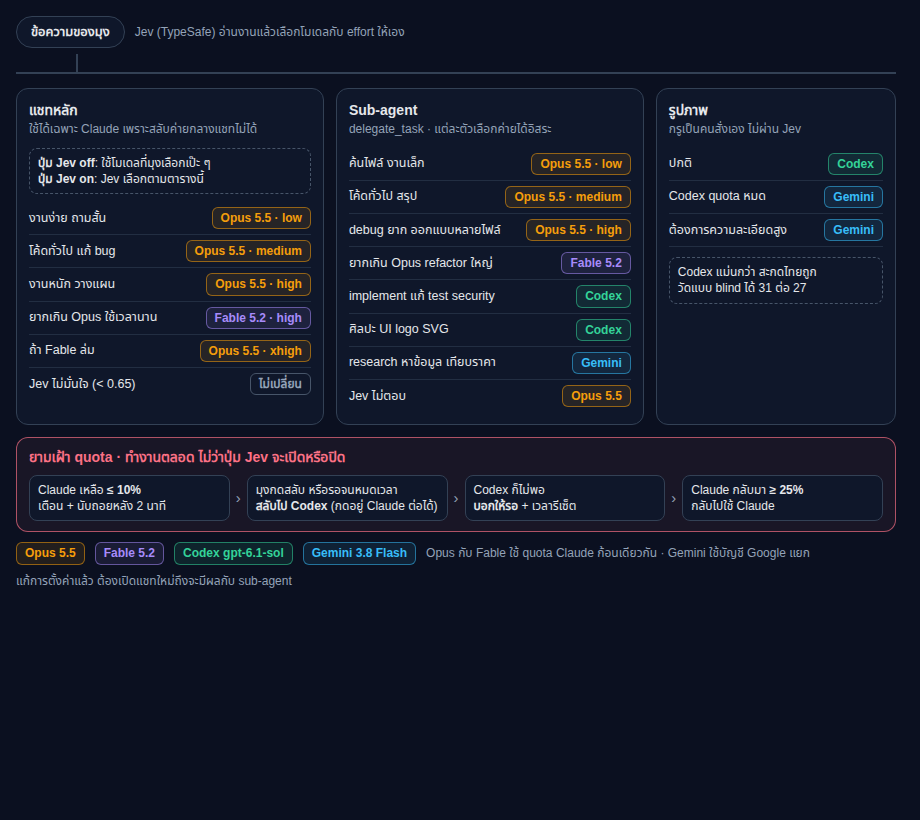
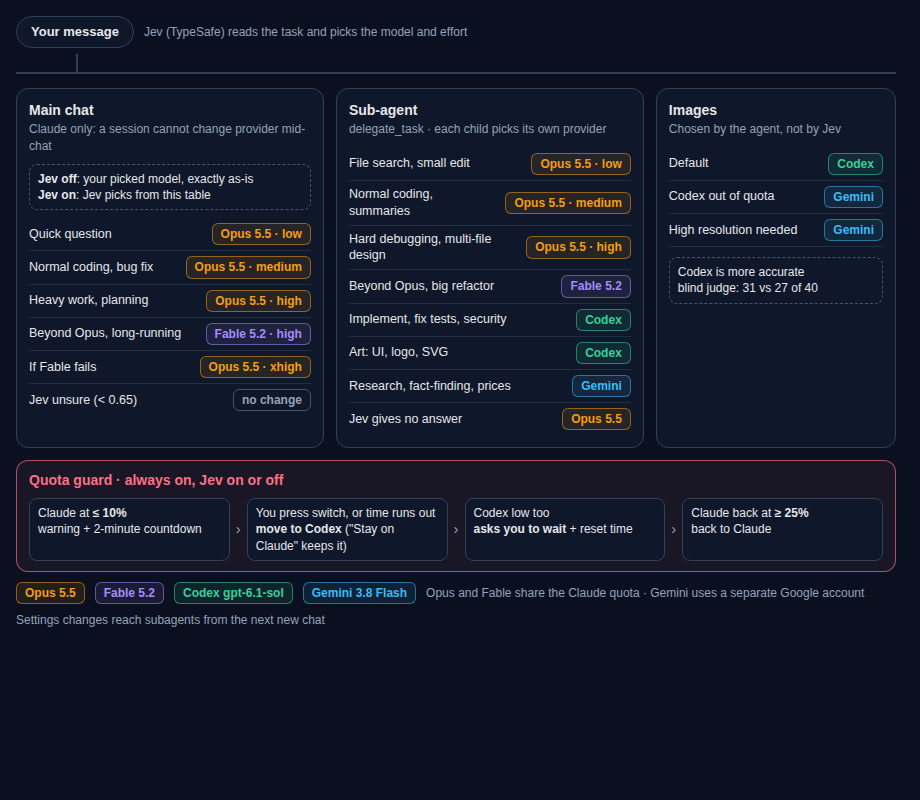
docs: English-only diagram, README and user-facing quota messages

diff --git a/docs/routing-map.html b/docs/routing-map.html
@@ -31,63 +31,63 @@
 
 <div class="map">
   <div class="top">
-    <span class="pill">ข้อความของมุง</span>
-    <span class="hint">Jev (TypeSafe) อ่านงานแล้วเลือกโมเดลกับ effort ให้เอง</span>
+    <span class="pill">Your message</span>
+    <span class="hint">Jev (TypeSafe) reads the task and picks the model and effort</span>
   </div>
   <div class="stem"></div>
 
   <div class="cols">
     <div class="col">
-      <h3>แชทหลัก</h3>
-      <div class="sub">ใช้ได้เฉพาะ Claude เพราะสลับค่ายกลางแชทไม่ได้</div>
-      <div class="gate"><b>ปุ่ม Jev off</b>: ใช้โมเดลที่มุงเลือกเป๊ะ ๆ<br><b>ปุ่ม Jev on</b>: Jev เลือกตามตารางนี้</div>
-      <div class="row"><span class="task">งานง่าย ถามสั้น</span><span class="chip opus">Opus 5.5 · low</span></div>
-      <div class="row"><span class="task">โค้ดทั่วไป แก้ bug</span><span class="chip opus">Opus 5.5 · medium</span></div>
-      <div class="row"><span class="task">งานหนัก วางแผน</span><span class="chip opus">Opus 5.5 · high</span></div>
-      <div class="row"><span class="task">ยากเกิน Opus ใช้เวลานาน</span><span class="chip fable">Fable 5.2 · high</span></div>
-      <div class="row"><span class="task">ถ้า Fable ล่ม</span><span class="chip opus">Opus 5.5 · xhigh</span></div>
-      <div class="row"><span class="task">Jev ไม่มั่นใจ (&lt; 0.65)</span><span class="chip keep">ไม่เปลี่ยน</span></div>
+      <h3>Main chat</h3>
+      <div class="sub">Claude only: a session cannot change provider mid-chat</div>
+      <div class="gate"><b>Jev off</b>: your picked model, exactly as-is<br><b>Jev on</b>: Jev picks from this table</div>
+      <div class="row"><span class="task">Quick question</span><span class="chip opus">Opus 5.5 · low</span></div>
+      <div class="row"><span class="task">Normal coding, bug fix</span><span class="chip opus">Opus 5.5 · medium</span></div>
+      <div class="row"><span class="task">Heavy work, planning</span><span class="chip opus">Opus 5.5 · high</span></div>
+      <div class="row"><span class="task">Beyond Opus, long-running</span><span class="chip fable">Fable 5.2 · high</span></div>
+      <div class="row"><span class="task">If Fable fails</span><span class="chip opus">Opus 5.5 · xhigh</span></div>
+      <div class="row"><span class="task">Jev unsure (&lt; 0.65)</span><span class="chip keep">no change</span></div>
     </div>
 
     <div class="col">
       <h3>Sub-agent</h3>
-      <div class="sub">delegate_task · แต่ละตัวเลือกค่ายได้อิสระ</div>
-      <div class="row"><span class="task">ค้นไฟล์ งานเล็ก</span><span class="chip opus">Opus 5.5 · low</span></div>
-      <div class="row"><span class="task">โค้ดทั่วไป สรุป</span><span class="chip opus">Opus 5.5 · medium</span></div>
-      <div class="row"><span class="task">debug ยาก ออกแบบหลายไฟล์</span><span class="chip opus">Opus 5.5 · high</span></div>
-      <div class="row"><span class="task">ยากเกิน Opus refactor ใหญ่</span><span class="chip fable">Fable 5.2</span></div>
-      <div class="row"><span class="task">implement แก้ test security</span><span class="chip codex">Codex</span></div>
-      <div class="row"><span class="task">ศิลปะ UI logo SVG</span><span class="chip codex">Codex</span></div>
-      <div class="row"><span class="task">research หาข้อมูล เทียบราคา</span><span class="chip gem">Gemini</span></div>
-      <div class="row"><span class="task">Jev ไม่ตอบ</span><span class="chip opus">Opus 5.5</span></div>
+      <div class="sub">delegate_task · each child picks its own provider</div>
+      <div class="row"><span class="task">File search, small edit</span><span class="chip opus">Opus 5.5 · low</span></div>
+      <div class="row"><span class="task">Normal coding, summaries</span><span class="chip opus">Opus 5.5 · medium</span></div>
+      <div class="row"><span class="task">Hard debugging, multi-file design</span><span class="chip opus">Opus 5.5 · high</span></div>
+      <div class="row"><span class="task">Beyond Opus, big refactor</span><span class="chip fable">Fable 5.2</span></div>
+      <div class="row"><span class="task">Implement, fix tests, security</span><span class="chip codex">Codex</span></div>
+      <div class="row"><span class="task">Art: UI, logo, SVG</span><span class="chip codex">Codex</span></div>
+      <div class="row"><span class="task">Research, fact-finding, prices</span><span class="chip gem">Gemini</span></div>
+      <div class="row"><span class="task">Jev gives no answer</span><span class="chip opus">Opus 5.5</span></div>
     </div>
 
     <div class="col">
-      <h3>รูปภาพ</h3>
-      <div class="sub">กรูเป็นคนสั่งเอง ไม่ผ่าน Jev</div>
-      <div class="row"><span class="task">ปกติ</span><span class="chip codex">Codex</span></div>
-      <div class="row"><span class="task">Codex quota หมด</span><span class="chip gem">Gemini</span></div>
-      <div class="row"><span class="task">ต้องการความละเอียดสูง</span><span class="chip gem">Gemini</span></div>
-      <div class="gate" style="margin-top:10px">Codex แม่นกว่า สะกดไทยถูก<br>วัดแบบ blind ได้ 31 ต่อ 27</div>
+      <h3>Images</h3>
+      <div class="sub">Chosen by the agent, not by Jev</div>
+      <div class="row"><span class="task">Default</span><span class="chip codex">Codex</span></div>
+      <div class="row"><span class="task">Codex out of quota</span><span class="chip gem">Gemini</span></div>
+      <div class="row"><span class="task">High resolution needed</span><span class="chip gem">Gemini</span></div>
+      <div class="gate" style="margin-top:10px">Codex is more accurate<br>blind judge: 31 vs 27 of 40</div>
     </div>
   </div>
 
   <div class="quota">
-    <h3>ยามเฝ้า quota · ทำงานตลอด ไม่ว่าปุ่ม Jev จะเปิดหรือปิด</h3>
+    <h3>Quota guard · always on, Jev on or off</h3>
     <div class="steps">
-      <div class="step">Claude เหลือ <b>≤ 10%</b><br>เตือน + นับถอยหลัง 2 นาที</div>
+      <div class="step">Claude at <b>≤ 10%</b><br>warning + 2-minute countdown</div>
       <span class="arrow">›</span>
-      <div class="step">มุงกดสลับ หรือรอจนหมดเวลา<br><b>สลับไป Codex</b> (กดอยู่ Claude ต่อได้)</div>
+      <div class="step">You press switch, or time runs out<br><b>move to Codex</b> ("Stay on Claude" keeps it)</div>
       <span class="arrow">›</span>
-      <div class="step">Codex ก็ไม่พอ<br><b>บอกให้รอ</b> + เวลารีเซ็ต</div>
+      <div class="step">Codex low too<br><b>asks you to wait</b> + reset time</div>
       <span class="arrow">›</span>
-      <div class="step">Claude กลับมา <b>≥ 25%</b><br>กลับไปใช้ Claude</div>
+      <div class="step">Claude back at <b>≥ 25%</b><br>back to Claude</div>
     </div>
   </div>
 
   <div class="legend">
     <span class="chip opus">Opus 5.5</span><span class="chip fable">Fable 5.2</span><span class="chip codex">Codex gpt-6.1-sol</span><span class="chip gem">Gemini 3.8 Flash</span>
-    <span class="hint">Opus กับ Fable ใช้ quota Claude ก้อนเดียวกัน · Gemini ใช้บัญชี Google แยก</span>
+    <span class="hint">Opus and Fable share the Claude quota · Gemini uses a separate Google account</span>
   </div>
-  <div class="foot">แก้การตั้งค่าแล้ว ต้องเปิดแชทใหม่ถึงจะมีผลกับ sub-agent</div>
+  <div class="foot">Settings changes reach subagents from the next new chat</div>
 </div>

diff --git a/plugins/hermes-jev-routing/quota_switch.py b/plugins/hermes-jev-routing/quota_switch.py
@@ -88,35 +88,35 @@ def plan_turn(model: str, gate, state: dict, slot: dict, now: Optional[float] = 
             new = {"mode": "claude"} if state.get("mode") not in (None, "", "claude") else None
             if gate.claude_low_spare and not slot.get("spare_noted"):
                 slot["spare_noted"] = True
-                return Plan("warn", f"Claude account นี้เหลือ {gate.claude_left:.0f}% ({gate.claude_label}) "
-                                    "แต่ยังมีอีก account ใน pool จะสลับ account ให้เอง", state=new)
+                return Plan("warn", f"This Claude account has {gate.claude_left:.0f}% left ({gate.claude_label}), "
+                                    "but another account in the pool has room. Switching accounts automatically.", state=new)
             return Plan(state=new)
         left = f"{gate.claude_left:.0f}%" if gate.claude_left is not None else "?"
         if gate.codex_usable:
             if slot.get("declined") and not gate.claude_floor:
-                return Plan("warn", f"Claude เหลือ {left} ({gate.claude_label}) มุงเลือกอยู่ Claude ต่อ")
+                return Plan("warn", f"Claude has {left} left ({gate.claude_label}). You chose to stay on Claude.")
             pending = state.get("mode") == "pending" and state.get("deadline", 0) > now
             deadline = float(state["deadline"]) if pending else now + OFFER_SECONDS
-            msg = (f"Claude เหลือ {left} ({gate.claude_label}) จะสลับไป Codex "
-                   f"ภายใน {max(0, int(deadline - now))} วินาที ถ้าไม่ตอบ")
+            msg = (f"Claude has {left} left ({gate.claude_label}). Switching to Codex "
+                   f"in {max(0, int(deadline - now))} seconds unless you answer.")
             return Plan("offer", msg, dict(CODEX_PICK), deadline,
                         state={"mode": "pending", "deadline": deadline, "from": model})
         if gate.claude_floor:
             return Plan("block", qg.wait_message(gate), state={"mode": "wait",
                         "until": gate.resume_at.timestamp() if gate.resume_at else 0})
-        return Plan("warn", f"Claude เหลือ {left} ({gate.claude_label}) และ Codex ใช้ไม่ได้ "
-                            "ทำงานให้สั้นและเซฟงานบ่อย ๆ")
+        return Plan("warn", f"Claude has {left} left ({gate.claude_label}) and Codex is unavailable. "
+                            "Keep tasks short and save work often.")
     if provider == "openai-codex":
         back = dict(CLAUDE_DEFAULT)
         previous = str(state.get("from") or "")
         if provider_of(previous) == "anthropic":
             back["model"] = previous
         if gate.claude_recovered and not gate.claude_floor and state.get("mode") in ("codex", "pending"):
-            return Plan("switch", f"Claude กลับมาแล้ว (เหลือ {gate.claude_left or 100:.0f}%) สลับกลับ Claude",
+            return Plan("switch", f"Claude is back ({gate.claude_left or 100:.0f}% left). Switching back to Claude.",
                         back, state={"mode": "claude"})
         if gate.codex_floor:
             if gate.claude_usable or not gate.claude_floor:
-                return Plan("switch", "Codex ใกล้หมด สลับกลับ Claude", back, state={"mode": "claude"})
+                return Plan("switch", "Codex is nearly out. Switching back to Claude.", back, state={"mode": "claude"})
             return Plan("block", qg.wait_message(gate), state={"mode": "wait",
                         "until": gate.resume_at.timestamp() if gate.resume_at else 0})
         if state.get("mode") != "codex":
@@ -132,5 +132,5 @@ def tool_block(tool_name: str, model: str, gate) -> Optional[str]:
     floor = (provider == "anthropic" and gate.claude_floor) or (provider == "openai-codex" and gate.codex_floor)
     if not floor:
         return None
-    return ("quota ใกล้หมด (เหลือไม่ถึง 3%): ห้ามเรียก tool เพิ่ม. หยุดตรงนี้ แล้วสรุปให้ user "
-            "ว่าทำอะไรเสร็จแล้ว อะไรค้างอยู่ และไฟล์ไหนแก้ไปแล้วบ้าง เพื่อทำต่อหลัง quota กลับมา")
+    return ("Quota nearly out (under 3%): do not call more tools. Stop here and tell the user "
+            "what is done, what is left, and which files were changed, so work can resume after the reset.")

diff --git a/plugins/typesafe-jev-delegation/quota_gate.py b/plugins/typesafe-jev-delegation/quota_gate.py
@@ -206,7 +206,7 @@ def evaluate(now: Optional[datetime] = None, *, cache: Optional[dict] = None, au
 def local_hhmm(moment: Optional[datetime]) -> str:
     """Bangkok-style local time; adds the day when it is not today."""
     if moment is None:
-        return "ไม่ทราบเวลา"
+        return "an unknown time"
     local = moment.astimezone()
     today = datetime.now().astimezone().date()
     if local.date() == today:
@@ -215,9 +215,9 @@ def local_hhmm(moment: Optional[datetime]) -> str:
 
 
 def wait_message(gate: Gate) -> str:
-    claude = f"Claude เหลือ {gate.claude_left:.0f}% ({gate.claude_label})" if gate.claude_left is not None else "Claude ใกล้หมด"
-    codex = "Codex ไม่มี account ที่ใช้ได้" if gate.codex_accounts <= 0 else f"Codex เหลือ {gate.codex_left or 0:.0f}%"
-    return f"quota ไม่พอ: {claude}, {codex}. รอถึง {local_hhmm(gate.resume_at)} แล้วค่อยสั่งต่อ"
+    claude = f"Claude has {gate.claude_left:.0f}% left ({gate.claude_label})" if gate.claude_left is not None else "Claude is nearly out"
+    codex = "Codex has no usable account" if gate.codex_accounts <= 0 else f"Codex has {gate.codex_left or 0:.0f}% left"
+    return f"Not enough quota: {claude}, {codex}. Wait until {local_hhmm(gate.resume_at)}, then continue."
 
 
 # --- switch state shared between main chat and subagents -----------------------------------

diff --git a/plugins/typesafe-jev-delegation/tests/test_quota_gate.py b/plugins/typesafe-jev-delegation/tests/test_quota_gate.py
@@ -119,7 +119,7 @@ class EvaluateTest(unittest.TestCase):
         codex = [acct("plus1", ("Session", 100, SOON), ("Weekly", 34, WEEK))]
         gate = qg.evaluate(NOW, cache=cache((95, 10), codex=codex), auth=auth(codex=[exhausted("plus1", SOON)]))
         self.assertEqual(gate.resume_at, datetime.fromisoformat(SOON))
-        self.assertIn("รอถึง", qg.wait_message(gate))
+        self.assertIn("Wait until", qg.wait_message(gate))
 
     def test_recovered_needs_25_percent(self):
         self.assertFalse(qg.evaluate(NOW, cache=cache((76, 10)), auth=auth()).claude_recovered)
@@ -160,7 +160,7 @@ class SubRouteGateTest(unittest.TestCase):
     def test_both_empty_refuses_with_wait(self):
         with self.assertRaises(DelegationRouteError) as caught:
             self.run_gate(gate(claude_left=2, codex_accounts=0), OPTIONS["deep"]["route"])
-        self.assertIn("รอถึง", str(caught.exception))
+        self.assertIn("Wait until", str(caught.exception))
 
     def test_codex_pick_falls_back_to_deep(self):
         out = self.run_gate(gate(claude_left=80, codex_accounts=0), OPTIONS["codex"]["route"])

diff --git a/plugins/hermes-jev-routing/__init__.py b/plugins/hermes-jev-routing/__init__.py
@@ -543,7 +543,7 @@ def _command(raw: str = "", *, session_id: str = "") -> str:  # noqa: C901
         return suggestion_text(path, write="--write" in parts)
     if head == ["stay"]:
         slot["declined"] = True
-        return "อยู่ Claude ต่อ จะถามใหม่ตอน quota เหลือไม่ถึง 3%"
+        return "Staying on Claude. Will ask again when its quota drops below 3%."
     if head == ["on"]:
         slot["enabled"] = True
         publish_toggle(session_id, slot)

diff --git a/plugins/hermes-jev-routing/tests/test_quota_switch.py b/plugins/hermes-jev-routing/tests/test_quota_switch.py
@@ -53,7 +53,7 @@ class PlanTurnTest(unittest.TestCase):
     def test_floor_claude_no_codex_blocks_with_wait_time(self):
         plan = self.plan("claude-opus-5-5", gate(claude_left=2, codex_accounts=0, resume_at=RESET))
         self.assertEqual(plan.action, "block")
-        self.assertIn("รอถึง", plan.message)
+        self.assertIn("Wait until", plan.message)
         self.assertEqual(plan.state["mode"], "wait")
 
     def test_spare_account_warns_once(self):

diff --git a/README.md b/README.md
@@ -1,7 +1,5 @@
 # hermes-jev-quota-routing
 
-ให้ [Jev (TypeSafe)](https://typesafe.ai) เลือกโมเดลกับ effort ให้ [Hermes Agent](https://hermes-agent.nousresearch.com) เอง ทั้งแชทหลักและ sub-agent ด้วยกติกาเดียวกัน พร้อมตัวเฝ้า quota ที่เตือนก่อน แล้วสลับ Claude ไป Codex ให้อัตโนมัติ
-
 Lets TypeSafe Jev pick the model and effort for Hermes Agent, in the main chat and in subagents, under one rule set, with a quota guard that warns first and then moves from Claude to Codex.
 
 ![routing map](docs/routing-map.png)
